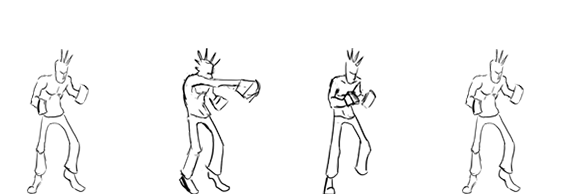
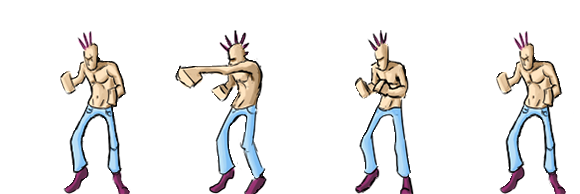
Fix enemy movement

diff --git a/src/Enemy.cpp b/src/Enemy.cpp
@@ -12,11 +12,11 @@
 
 Enemy* Enemy::enemy;
 
-Enemy::Enemy(GameObject& associated) : Component(associated)
+Enemy::Enemy(GameObject& associated, GameObject* player) : Component(associated), player(player)
 {
     associated.AddComponent(new Collider(associated));
     
-    Sprite* sprite = new Sprite(associated, "games/SuperDiscoFighter2000/assets/img/enemy_iddle.png");
+    Sprite* sprite = new Sprite(associated, "games/SuperDiscoFighter2000/assets/img/enemy_iddle.png", 4, 1.5);
     associated.AddComponent(sprite);
     
     associated.box.w = sprite->GetWidth();
@@ -42,22 +42,30 @@ void Enemy::Start()
 
 void Enemy::Update(float dt)
 {
+    // printf("distance %lf\n", associated.box.Center().Distance(player->box.Center()));
+    // printf("angle %lf\n", (180 / M_PI) * atan2(player->box.Center().y - associated.box.Center().y, player->box.Center().x - associated.box.Center().x));
+
+    // associated.angleDeg = (180 / M_PI) * atan2((InputManager::GetInstance().GetMouseY() + Camera::pos.y - associated.box.Center().y), (InputManager::GetInstance().GetMouseX() + Camera::pos.x - associated.box.Center().x));
+
+    int distanceAngle = (180 / M_PI) * atan2(player->box.Center().y - associated.box.Center().y, player->box.Center().x - associated.box.Center().x);
+    int distance = associated.box.Center().Distance(player->box.Center());
+
     if(state == MOVING)
     {
         if(BeatManager::GetInstance().IsBeat() and not moved)
         {
-            // printf("x %lf\n", associated.box.x);
-            // printf("y %lf\n", associated.box.y);
+            printf("x %lf\n", associated.box.x);
+            printf("y %lf\n", associated.box.y);
             moved = true; 
-            int action = rand() % 3 + 1;
+            int action = (distanceAngle > 0 and distanceAngle < 180)? 2: 1;
             // printf("ACTION %d\n", action);
 
             switch(action)
             {
                 case 1:
-                    if(Game::GetInstance().GetHeight()/6 < associated.box.y)
+                    if(Game::GetInstance().GetHeight()/4 < associated.box.y)
                     {
-                        associated.box.y += 45;
+                        associated.box.y -= 10;
                         //associated.box.x -= 60;
                     }
                 break;
@@ -65,21 +73,24 @@ void Enemy::Update(float dt)
                 case 2:
                     if(Game::GetInstance().GetHeight() - 350 > associated.box.y)
                     {
-                        associated.box.y -= 45;
+                        associated.box.y += 10;
                         //associated.box.x += 60;
                     }
                 break;
-
-                case 3:
-                    associated.box.x -= 90;
-                break;
             }
+            
+            associated.box.x -= 10;
+
+            // state = RESTING;
+            // stateTimer.Restart();
+            // associated.RemoveComponent((Sprite *)associated.GetComponent("Sprite"));
+            // associated.AddComponent(new Sprite(associated, "games/SuperDiscoFighter2000/assets/img/enemy_rest.png"));
         }
         else if(not BeatManager::GetInstance().IsBeat())
         {
             moved = false;
         }
-        if(InputManager::GetInstance().KeyPress(SDLK_SPACE))
+        if(distance < 100)
         {
             state = PUNCH;
             stateTimer.Restart();
@@ -96,7 +107,7 @@ void Enemy::Update(float dt)
         {
             state = MOVING;
             associated.RemoveComponent((Sprite *)associated.GetComponent("Sprite"));
-            associated.AddComponent(new Sprite(associated, "games/SuperDiscoFighter2000/assets/img/enemy_iddle.png"));
+            associated.AddComponent(new Sprite(associated, "games/SuperDiscoFighter2000/assets/img/enemy_iddle.png", 4, 1.5));
         }
     }
     else if(state == RESTING)

diff --git a/include/Enemy.hpp b/include/Enemy.hpp
@@ -17,11 +17,13 @@ class Enemy : public Component
         float stateOffset;
 
         bool moved;
+
+        GameObject* player;
     
     public:
         static Enemy* enemy;
 
-        Enemy(GameObject& associated);
+        Enemy(GameObject& associated, GameObject* player);
         ~Enemy();
 
         void Start();

diff --git a/src/StageScene.cpp b/src/StageScene.cpp
@@ -53,7 +53,7 @@ StageScene::StageScene()
 	objectArray.emplace_back(playerGO);
 
 	GameObject* enemyGO = new GameObject();
-	Enemy* enemy = new Enemy(*enemyGO);
+	Enemy* enemy = new Enemy(*enemyGO, playerGO);
 	enemyGO->box.x = 540;
 	enemyGO->box.y = 160;
 	enemyGO->AddComponent(enemy);
